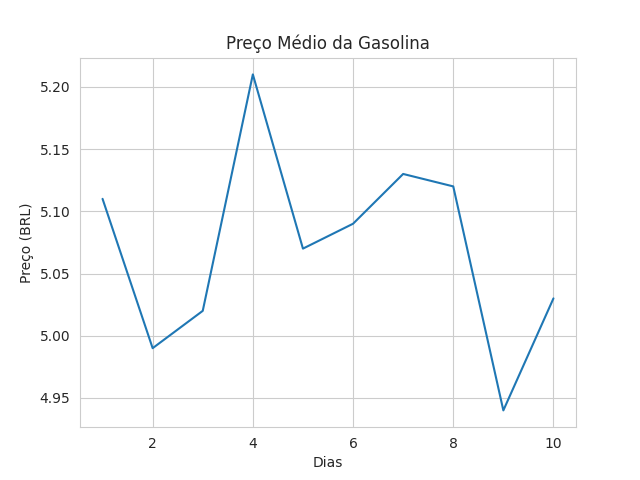
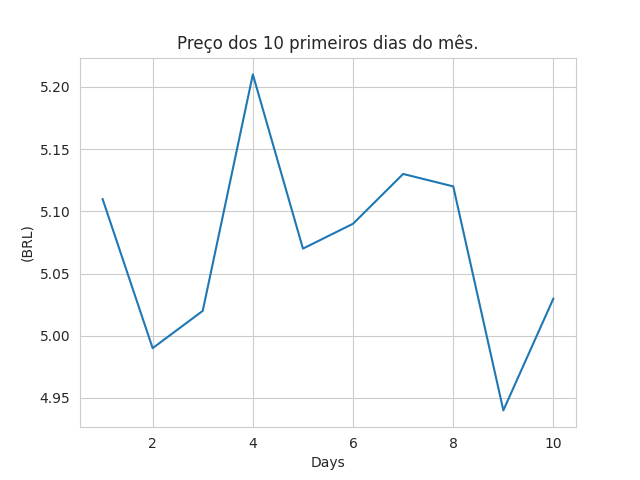
alterado a legenda e rótulos do gráfico

Changed region(s): [[0.2812, 0.0625, 0.75, 0.125], [0.0312, 0.4375, 0.0625, 0.5938], [0.4688, 0.9375, 0.5312, 1.0]]

diff --git a/gasolina.py b/gasolina.py
@@ -9,6 +9,6 @@ gasolina_df
 with sns.axes_style('whitegrid'):
 
   grafico = sns.lineplot(data=gasolina_df, x='dia', y='venda')
-  grafico.set(title='Preço Médio da Gasolina', xlabel='Dias', ylabel='Preço (BRL)');
+  grafico.set(title='Preço dos 10 primeiros dias do mês.', xlabel='Days', ylabel='(BRL)');
 
 plt.savefig('gasolina.png')
